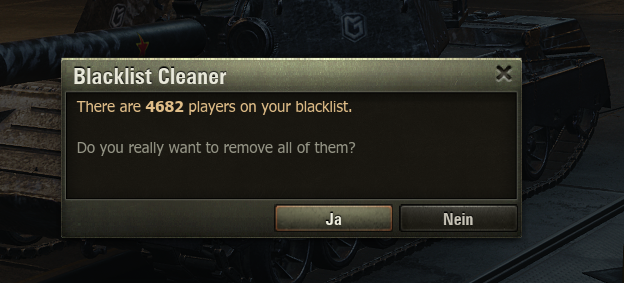
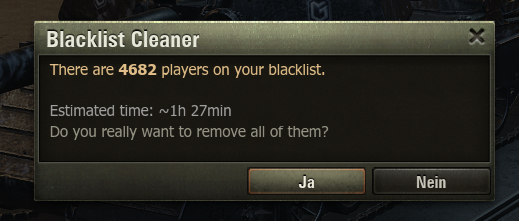
2.3.0.1

diff --git a/README.md b/README.md
@@ -1,6 +1,6 @@
 # Contact Cleaner
 
-> A World of Tanks lobby mod for cleaning up your contacts — blacklist and friends list — straight from the hangar, with a confirmation dialog before anything is removed.
+> A World of Tanks lobby mod for cleaning up your contacts — blacklist and friends list — straight from the hangar, with a confirmation dialog (including an estimated runtime) before anything is removed.
 
 [![World of Tanks](https://img.shields.io/badge/World%20of%20Tanks-2.2.0.0-orange)](https://worldoftanks.eu/)
 [![Author](https://img.shields.io/badge/by-OldSkool-blue)](https://github.com/deadhat)
@@ -11,7 +11,7 @@
 
 ## Features
 
-Three independent hotkeys, each guarded by a confirmation dialog so nothing is removed by accident.
+Two cleanup actions, each guarded by a confirmation dialog so nothing is removed by accident. Every dialog shows how many contacts are affected and roughly how long the cleanup will take.
 
 ### 🧹 Clear your blacklist — `ALT + F12`
 
@@ -19,23 +19,17 @@ Removes **every** player from your ignore list in one go. Handy after years of a
 
 ![Blacklist confirmation dialog](images/blacklist.png)
 
-### 👋 Remove friends who no longer follow you back — `ALT + F10`
+### 👋 Remove people who aren't your friends back — `ALT + F11`
 
-Lists everyone on your friends list who has dropped you (you still follow them, they no longer follow you), then removes them on confirmation. The affected names are shown in the dialog.
+Lists everyone on your friends list who doesn't have *you* as a friend — people who removed you, plus your own friend requests that were never accepted — and removes them on confirmation. Your real, two-way friends are never touched. Affected names are shown in the dialog (capped at 10, with a "+N more" note for large lists).
 
-![Friends no longer following back](images/friends-not-following.png)
-
-### ✖️ Cancel unaccepted friend requests — `ALT + F11`
-
-Lists your own outgoing friend requests that are still pending and cancels them on confirmation.
-
-![Unaccepted outgoing requests](images/pending-requests.png)
+![Friend cleanup confirmation dialog](images/friend-cleanup.png)
 
 ---
 
 ## Installation
 
-1. Download the mod and copy it into your World of Tanks **mods** folder for your current game version:
+1. Download `mod_contact_cleaner.py` and copy it into your World of Tanks **mods** folder for your current game version:
    `World_of_Tanks/mods/<version>/`
 2. Start the game and load into your hangar.
 
@@ -50,16 +44,19 @@ Load into the hangar, then press the matching hotkey. A confirmation dialog appe
 | Hotkey (Windows) | Hotkey (Mac) | Action |
 | --- | --- | --- |
 | `ALT + F12` | `Option + F12` | Clear the entire blacklist |
-| `ALT + F10` | `Option + F10` | Remove friends who no longer follow you back |
-| `ALT + F11` | `Option + F11` | Cancel your unaccepted outgoing friend requests |
+| `ALT + F11` | `Option + F11` | Remove people who aren't your friends back |
 
 On Mac, `Option` is the key next to `Command`.
 
 ### Notes
 
-- Removal runs in the background — you can keep playing while contacts are being processed. Large blacklists take a while, since entries are removed one at a time with a short delay to stay within the game's rate limits.
+- Removal runs in the background — you can keep playing while contacts are being processed. Large lists take a while, since entries are removed one at a time with a short delay to stay within the game's rate limits. The dialog's estimated time reflects this.
 - The mod only acts in the hangar; the hotkeys do nothing during a battle.
 - Removed contacts are reported in `python.log`.
+
+### Debug
+
+Press `ALT + F9` in the hangar to dump every contact and its raw tags to `python.log`. Useful for troubleshooting or verifying what a cleanup would target before running it.
 
 ---
 